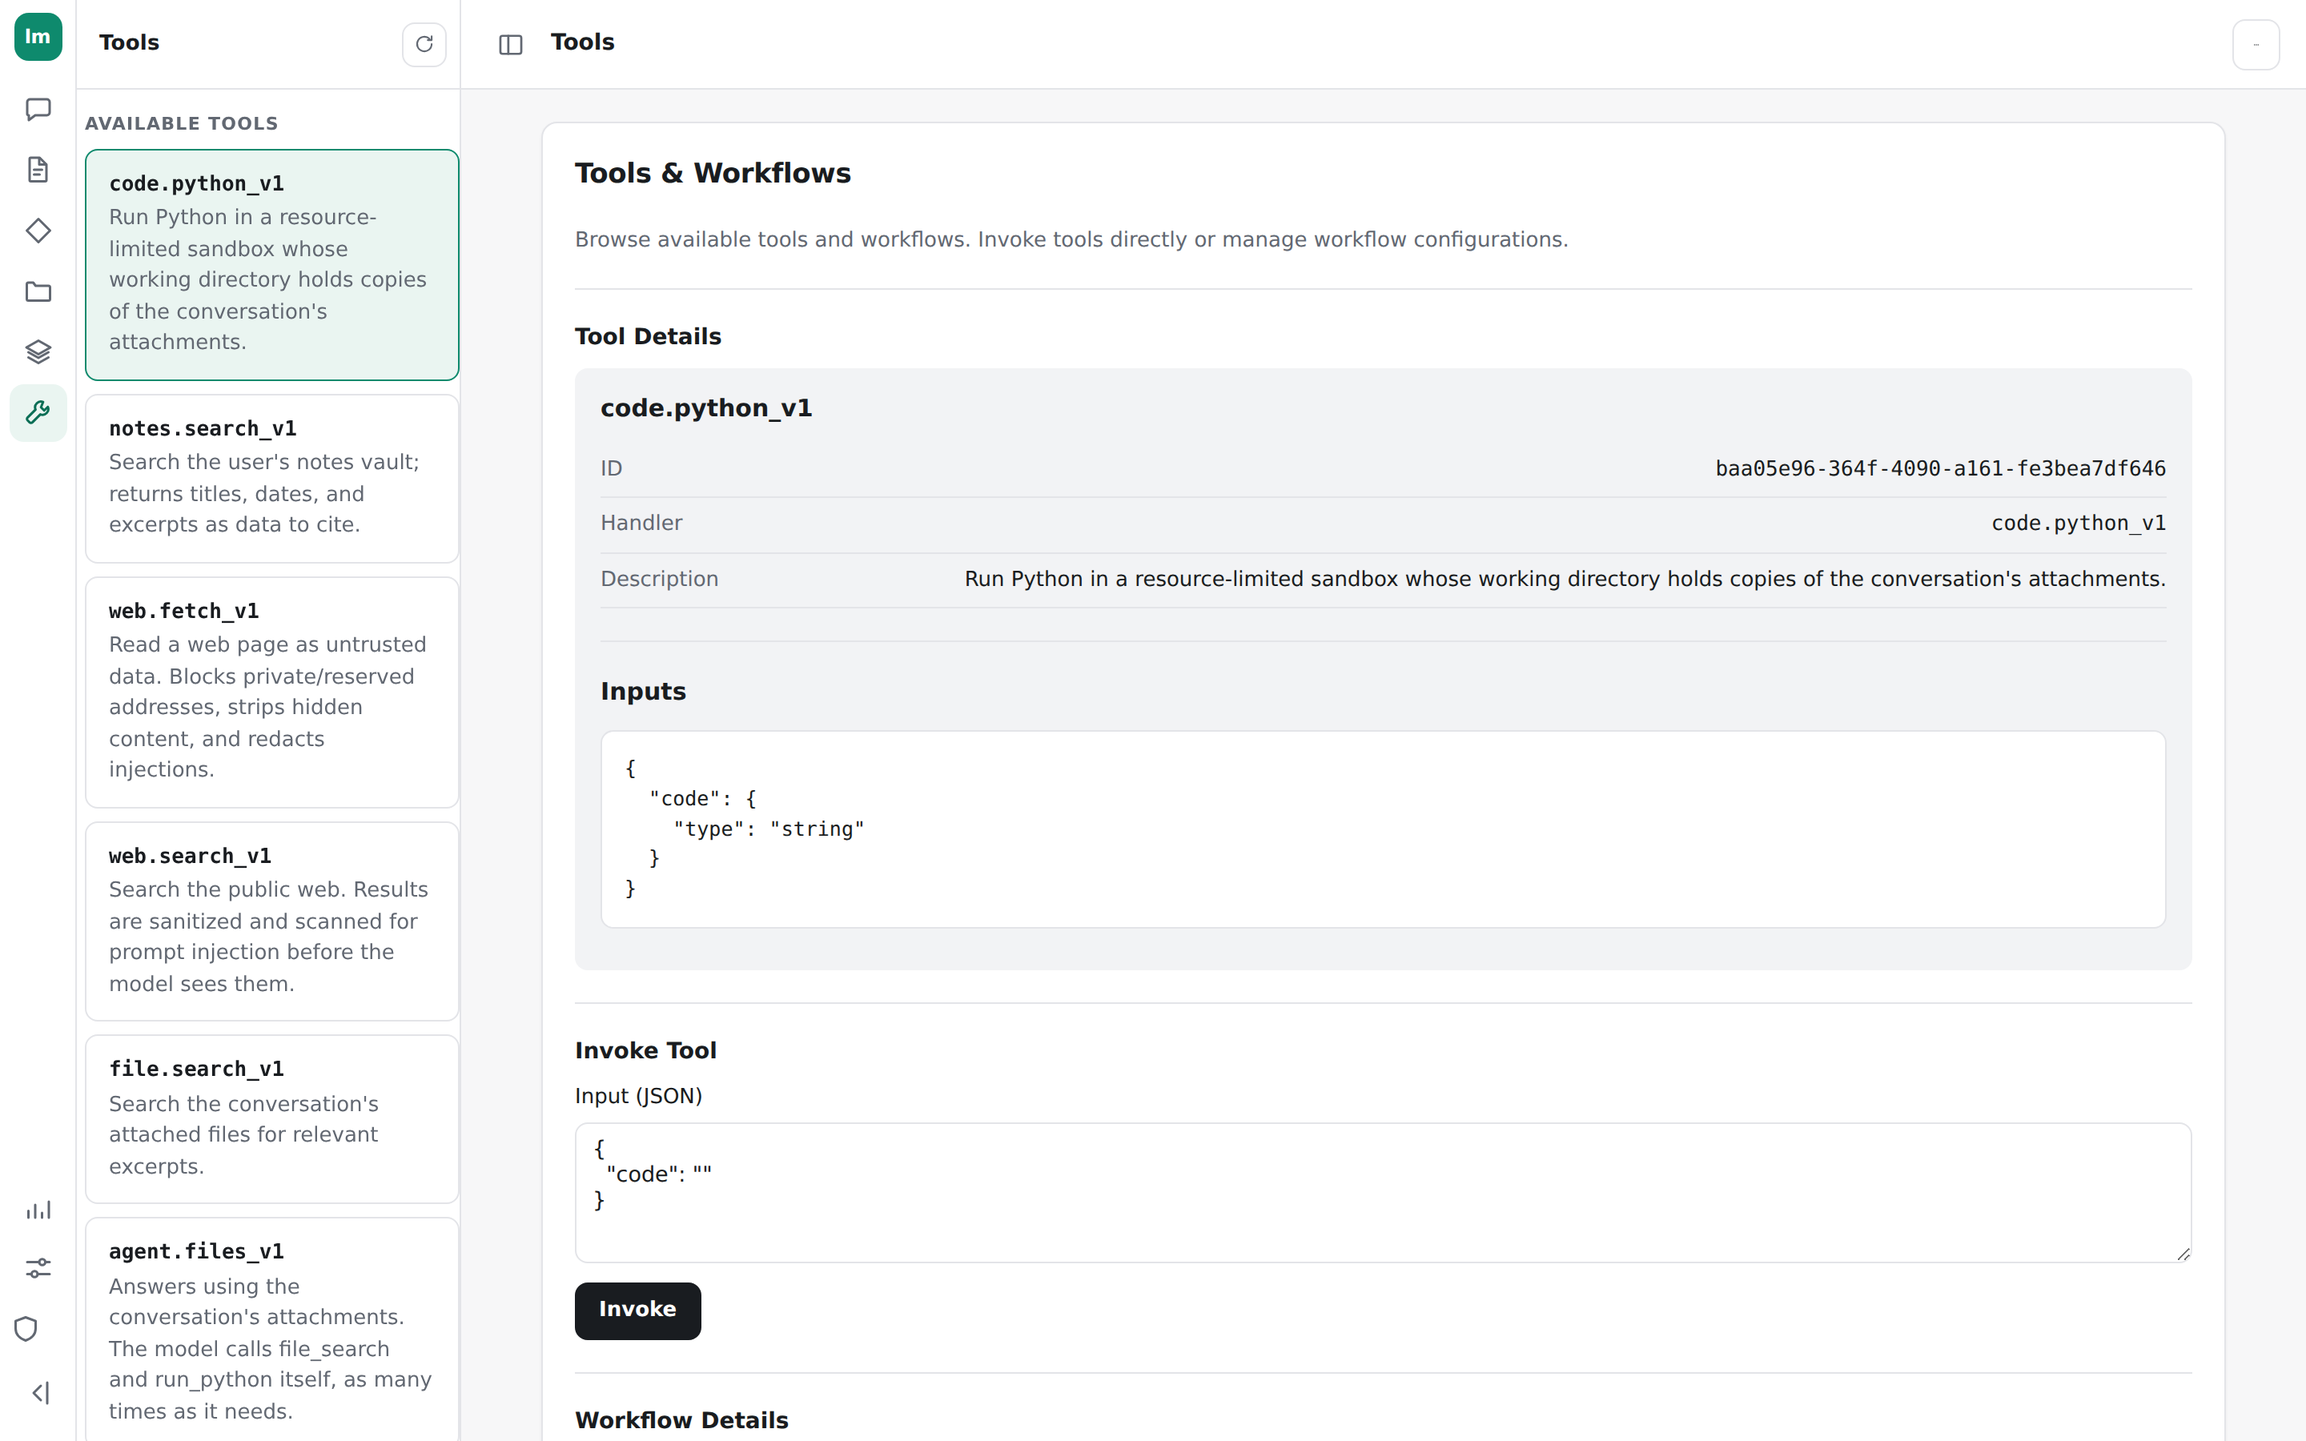
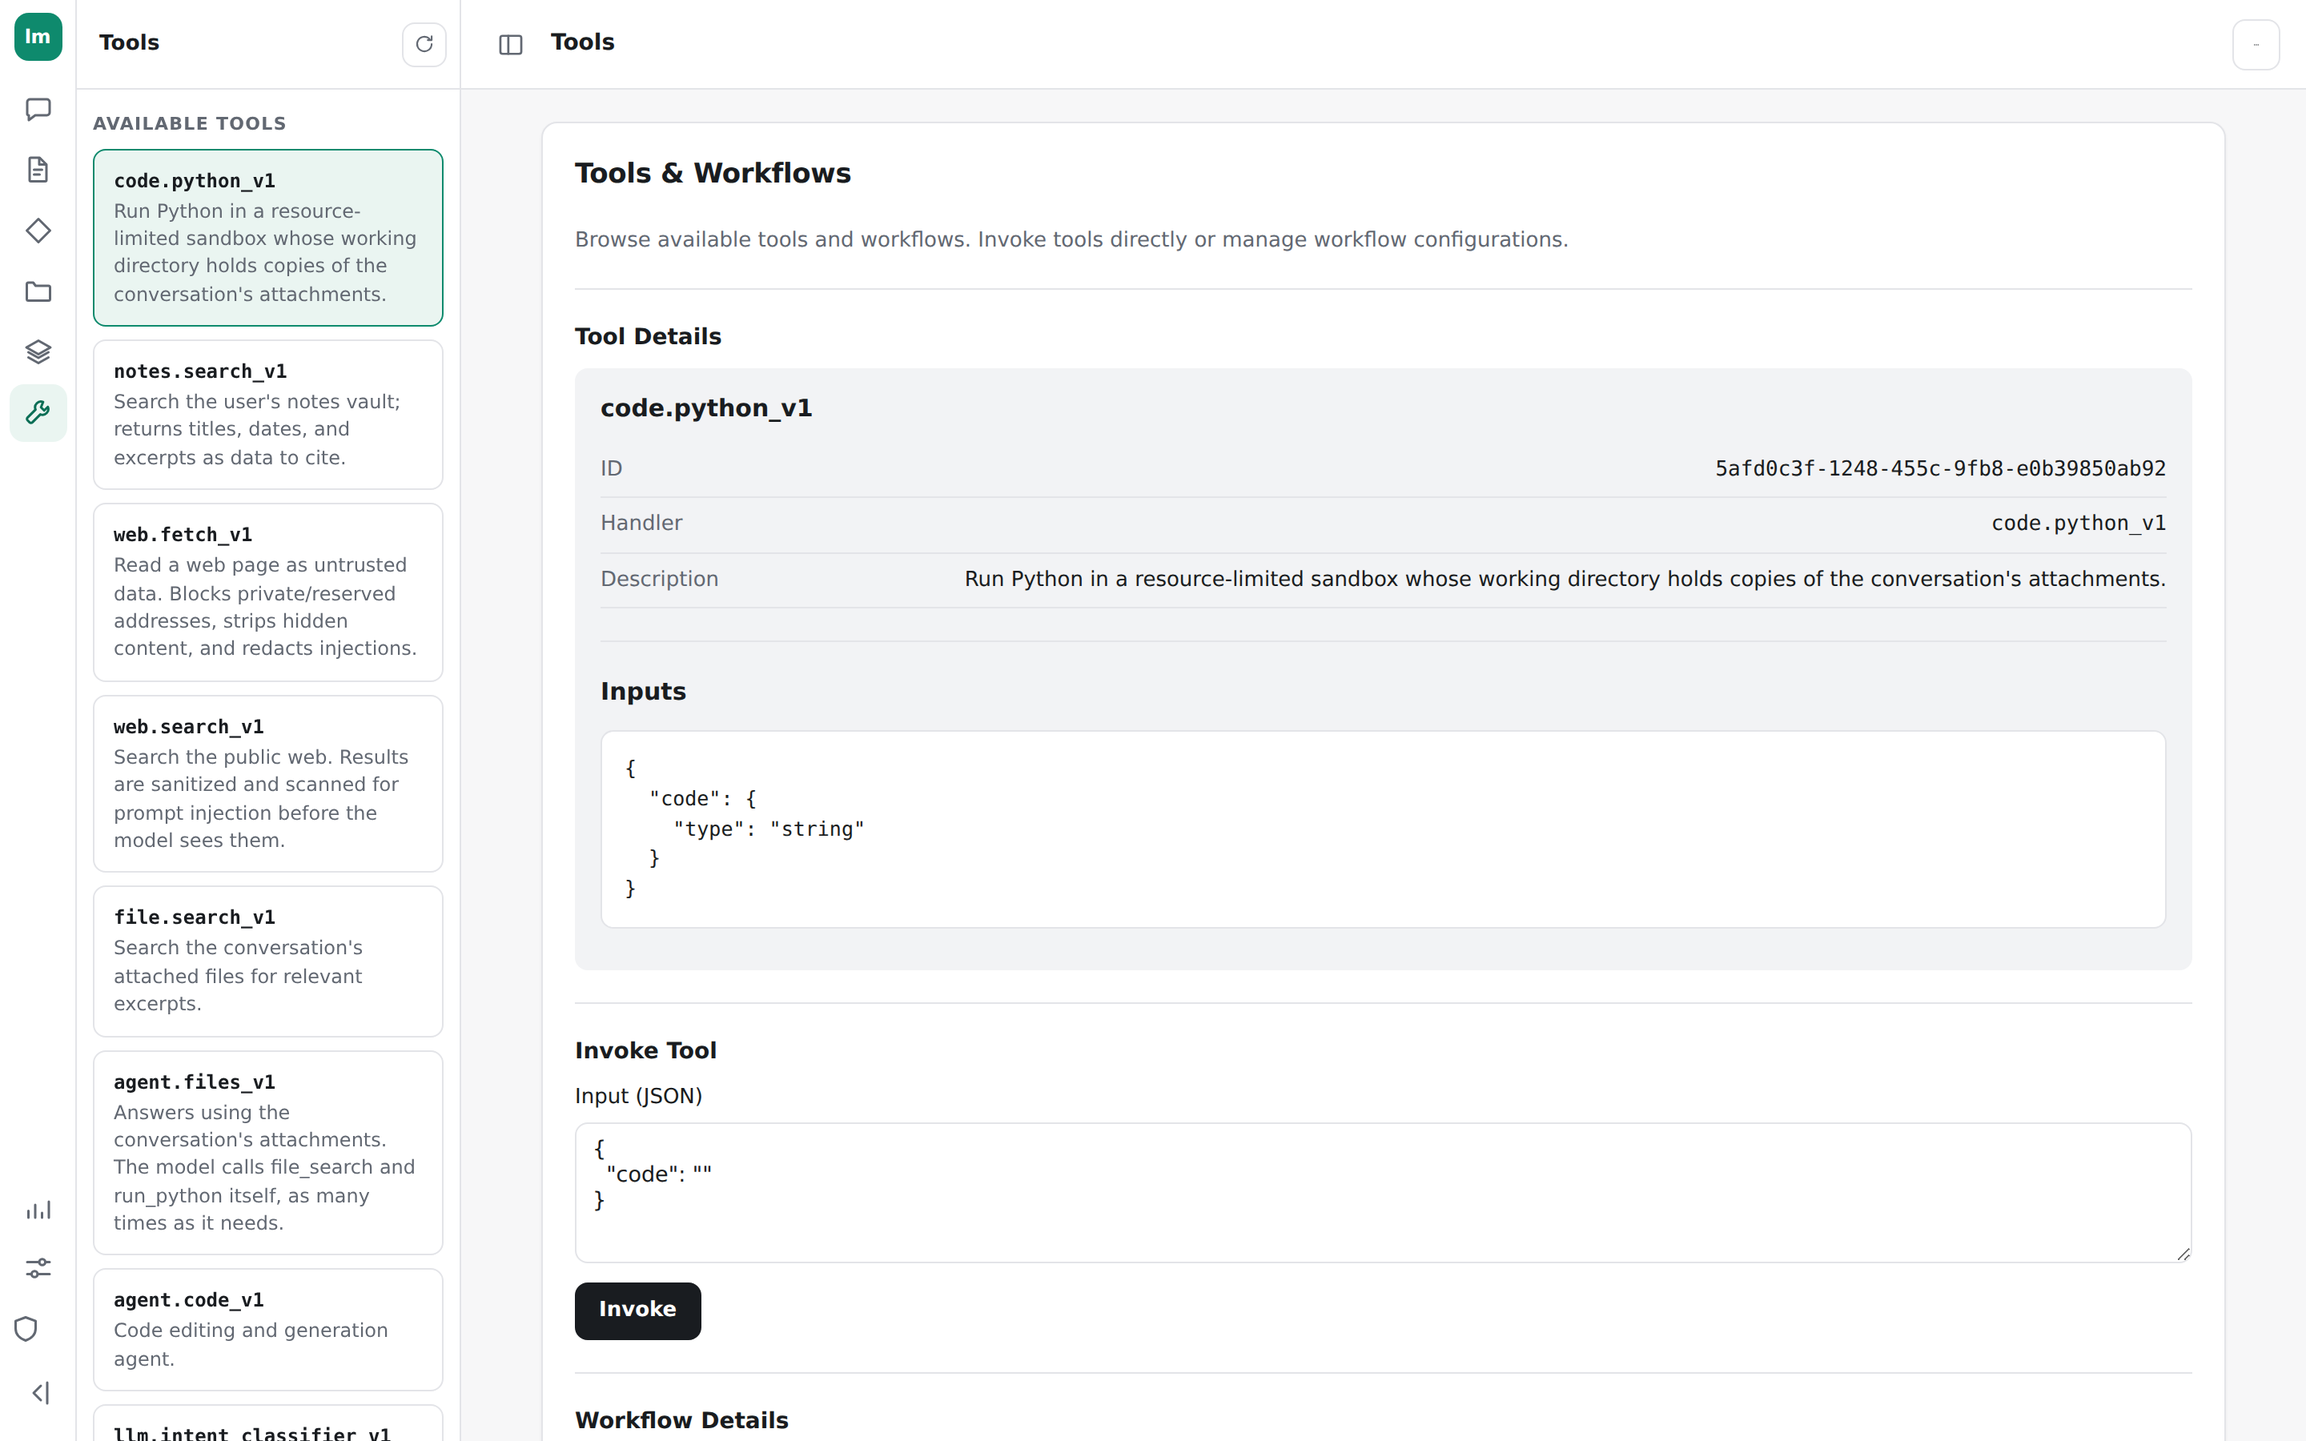
Lay the pane's lists out for the pane
Three lists were written for a full-width panel and moved into a 240px
column without being re-laid out. The overflow was then contained rather
than removed - `overflow-x: auto` on the wrapper - which keeps the column
the right width and lets the content scroll out of sight inside it.

Artifacts was a five-column table 358px wider than the pane holding it. What
scrolled off the left edge was the name; what kept its full slot was the
version and the date. The pane showed VISIBILITY, VERSION and UPDATED, and
the only field a row is picked by was off-screen. It is a card now, the same
shape as contexts and tools: name first, type and visibility under it,
version and date last and quiet.

Notes put the title and the date side by side, so the date held a fixed slot
at every width and the title took what was left. Three notes all dated
8/30/2026 read "Fear and Loathi...", "The reporter is ...", "Gonzo starts
at...": the identifying field truncated to pay for one that never varied.
The row stacks now, which is what the conversation list already did. Its
footer wraps rather than fighting for one line, where "3 notes" had been
breaking in half.

The contexts card's stats row wrapped wherever it ran out of room, so a card
read "ID:" / "0c3beee3..." / "Created:" / "8/30/2026" down four lines with
the labels orphaned from their values. It wraps between stats now, never
inside one.

Writing the witness found a fourth, in the pane I had judged fine from the
[…]

Changed region(s): [[0.0312, 0.1244, 0.1875, 1.0], [0.75, 0.3111, 0.9375, 0.3422], [0.0312, 0.0622, 0.125, 0.0933]]

diff --git a/frontend/styles.css b/frontend/styles.css
@@ -332,10 +332,6 @@ body {
   max-width: 100%;
 }
 
-.pane-body .table-wrapper {
-  overflow-x: auto;
-}
-
 .pane-body .notes-side-head input[type="search"],
 .pane-body .field,
 .pane-body select,
@@ -1997,15 +1993,24 @@ button.minor:hover {
 /* Card lists (contexts, tools, workflows) */
 .contexts-list,
 .tools-list,
-.workflows-list {
+.workflows-list,
+.artifacts-list {
   display: grid;
   gap: 8px;
 }
 
+/* `min-width: 0` because these are grid items, and a grid item defaults to
+   `min-width: auto` - it refuses to shrink below its own min-content width.
+   A monospace name like `code.python_v1` set that floor above the 219px the
+   pane's list track actually has, so every card sat 15px wider than the list
+   holding it and 5px outside the pane. The container was the right width the
+   whole time; the items were not obliged to respect it. */
 .context-card,
 .tool-card,
-.workflow-card {
-  padding: 12px 14px;
+.workflow-card,
+.artifact-card {
+  min-width: 0;
+  padding: 10px 12px;
   border: 1px solid var(--border);
   border-radius: var(--radius-sm);
   cursor: pointer;
@@ -2014,19 +2019,22 @@ button.minor:hover {
 
 .context-card:hover,
 .tool-card:hover,
-.workflow-card:hover {
+.workflow-card:hover,
+.artifact-card:hover {
   border-color: var(--border-strong);
   background: var(--panel-muted);
 }
 
 .context-card.selected,
 .tool-card.selected,
-.workflow-card.selected {
+.workflow-card.selected,
+.artifact-card.selected {
   border-color: var(--accent);
   background: var(--accent-light);
 }
 
-.context-card .name {
+.context-card .name,
+.artifact-card .name {
   font-weight: 600;
   margin-bottom: 2px;
 }
@@ -2037,17 +2045,64 @@ button.minor:hover {
   margin-bottom: 6px;
 }
 
-.context-card .stats {
+/* Wraps between stats, never inside one. In a 240px pane a nowrap row of
+   two label-and-value pairs broke wherever it ran out of room, so a card
+   read "ID:" / "0c3beee3..." / "Created:" / "8/30/2026" down four lines
+   with the labels orphaned from their values. */
+.context-card .stats,
+.artifact-card .stats {
   display: flex;
-  gap: 16px;
+  flex-wrap: wrap;
+  gap: 2px 14px;
   font-size: 12px;
   color: var(--text-muted);
 }
 
-.context-card .stat {
+.context-card .stat,
+.artifact-card .stat {
   display: flex;
   align-items: center;
   gap: 4px;
+  white-space: nowrap;
+}
+
+/* Type and visibility, under the name rather than beside it: at this width
+   a badge next to a name is a badge instead of a name. */
+.artifact-card .badges {
+  display: flex;
+  flex-wrap: wrap;
+  gap: 4px;
+  margin: 4px 0 6px;
+}
+
+/* Names run long - a workflow id, or an artifact falling back to its uuid -
+   and the pane is narrow enough that one long token would push the card
+   wider than its column. */
+.artifact-card .name {
+  overflow-wrap: anywhere;
+}
+
+/* The pane reads a step quieter than the workspace beside it: it is
+   secondary navigation, and it has 219px to say a name in. One step down is
+   a few more characters before the ellipsis on every row, which is the whole
+   point of the column. Meta stays at 11px, matching the conversation list.
+
+   `overflow-wrap` on the names for the same reason as `min-width: 0` above:
+   a dotted tool id or a uuid is one unbreakable word, and an unbreakable
+   word sets a min-content floor no narrow column can meet. */
+.context-pane .tool-name,
+.context-pane .workflow-name,
+.context-pane .context-card .name,
+.context-pane .artifact-card .name {
+  font-size: 12px;
+  overflow-wrap: anywhere;
+}
+
+.context-pane .tool-description,
+.context-pane .workflow-description,
+.context-pane .context-card .description {
+  font-size: 12px;
+  line-height: 1.45;
 }
 
 /* Detail blocks (contexts, tools, workflows, patches) */
@@ -2996,11 +3051,12 @@ button.minor:hover {
   flex: 1;
 }
 
+/* Title on its own line, date under it - the conversation list's shape.
+   Side by side, the date held a full slot at every width while the title
+   took what was left, so in a 240px pane three notes all dated 8/30/2026
+   read "Fear and Loathi...", "The reporter is ...", "Gonzo starts at...":
+   the identifying field truncated to pay for one that never varies. */
 .note-item {
-  display: flex;
-  justify-content: space-between;
-  align-items: baseline;
-  gap: 8px;
   padding: 8px 10px;
   border-radius: var(--radius-sm);
   cursor: pointer;
@@ -3011,25 +3067,37 @@ button.minor:hover {
 .note-item.contradicted .note-item-title { color: var(--danger); }
 
 .note-item-title {
+  display: block;
   font-weight: 500;
+  font-size: 13px;
   overflow: hidden;
   text-overflow: ellipsis;
   white-space: nowrap;
 }
 
 .note-item-date {
+  display: block;
   font-size: 11px;
   color: var(--text-muted);
-  flex-shrink: 0;
 }
 
+/* Wraps rather than fights for one line. The count and the two buttons were
+   a row that could not fit in 240px, so "3 notes" broke across two lines
+   and the buttons stacked beside it with the gap between them. */
 .notes-side-foot {
   display: flex;
+  flex-wrap: wrap;
   justify-content: space-between;
   align-items: center;
+  gap: 6px;
   padding: 8px 12px;
   border-top: 1px solid var(--border);
   font-size: 12px;
+}
+
+/* "3 notes" is two words and one fact; breaking it in half is neither. */
+#note-count {
+  white-space: nowrap;
 }
 
 .notes-main {

diff --git a/frontend/chat.js b/frontend/chat.js
@@ -300,7 +300,7 @@ const PANE_ITEM_SELECTOR = [
   '.note-item',
   '.note-search-hit',
   '.context-card',
-  '.artifacts-list tr.clickable',
+  '.artifact-card',
   '.tool-card',
   '.workflow-card',
 ].join(', ');
@@ -2035,30 +2035,33 @@ const renderArtifactsList = () => {
     return;
   }
 
-  const rows = state.artifacts
+  // A card, not a table row. Five columns need more than the 240px pane has,
+  // so the table scrolled sideways and the name - the only thing you pick a
+  // row by - was the part that went off the edge, while the version and the
+  // date kept their full slots. Same shape as the contexts and tools lists.
+  list.innerHTML = state.artifacts
     .map((a) => {
       const isSelected = a.id === state.selectedArtifact?.id;
+      const type = a.type || 'unknown';
+      const visibility = a.visibility || 'private';
       return `
-        <tr class="clickable ${isSelected ? 'selected' : ''}" data-id="${escapeHtml(a.id)}">
-          <td><span class="type-badge ${a.type || 'unknown'}">${escapeHtml(a.type || 'unknown')}</span></td>
-          <td>${escapeHtml(a.name || a.id)}</td>
-          <td><span class="visibility-badge ${a.visibility || 'private'}">${escapeHtml(a.visibility || 'private')}</span></td>
-          <td>v${a.version || 1}</td>
-          <td>${new Date(a.updated_at).toLocaleDateString()}</td>
-        </tr>
+        <div class="artifact-card ${isSelected ? 'selected' : ''}" data-id="${escapeAttr(a.id)}">
+          <div class="name">${escapeHtml(a.name || a.id)}</div>
+          <div class="badges">
+            <span class="type-badge ${escapeAttr(type)}">${escapeHtml(type)}</span>
+            <span class="visibility-badge ${escapeAttr(visibility)}">${escapeHtml(visibility)}</span>
+          </div>
+          <div class="stats">
+            <span class="stat">v${escapeHtml(String(a.version || 1))}</span>
+            <span class="stat">${escapeHtml(new Date(a.updated_at).toLocaleDateString())}</span>
+          </div>
+        </div>
       `;
     })
     .join('');
 
-  list.innerHTML = `
-    <table class="table">
-      <thead><tr><th>Type</th><th>Name</th><th>Visibility</th><th>Version</th><th>Updated</th></tr></thead>
-      <tbody>${rows}</tbody>
-    </table>
-  `;
-
-  list.querySelectorAll('tr.clickable').forEach((row) => {
-    row.addEventListener('click', () => selectArtifact(row.dataset.id));
+  list.querySelectorAll('.artifact-card').forEach((card) => {
+    card.addEventListener('click', () => selectArtifact(card.dataset.id));
   });
 };
 

diff --git a/frontend/index.html b/frontend/index.html
@@ -130,7 +130,7 @@
               </div>
             </div>
 
-            <div id="artifacts-list" class="artifacts-list table-wrapper">
+            <div id="artifacts-list" class="artifacts-list">
               <div class="empty">No artifacts found</div>
             </div>
           </div>

diff --git a/tests/test_browser_layout.py b/tests/test_browser_layout.py
@@ -1185,3 +1185,92 @@ class TestTheDefaultFollowsTheWidthWhileItIsStillTheDefault:
             assert self._stored(page) == "1"
         finally:
             context.close()
+
+
+class TestAPaneListFitsItsPane:
+    """Nothing in a 240px column may be wider than 240px.
+
+    The lists were written for a full-width panel and moved into the pane
+    without being re-laid out. The overflow was then contained rather than
+    removed - `overflow-x: auto` on the wrapper - which keeps the column the
+    right width and lets the content scroll out of sight inside it. The
+    artifacts list was a five-column table, so what scrolled away was the
+    name: the pane showed VERSION and UPDATED, and the field you pick a row
+    by was off the left edge.
+
+    Measuring the pane proves nothing, because the pane was always 240px.
+    These measure the content against it.
+    """
+
+    #: Panes whose list is populated by the fixtures a fresh account has.
+    #: Chat and Notes start empty for a new signup, so their emptiness is not
+    #: evidence either way; Tools ships a built-in catalogue.
+    POPULATED = ["tools-tab"]
+
+    def _overflow(self, page):
+        """How far the widest thing in the pane sticks out past it."""
+        return page.evaluate(
+            """() => {
+              const pane = document.querySelector('.context-pane');
+              if (!pane) return null;
+              const limit = pane.getBoundingClientRect().width;
+              let worst = 0, culprit = '';
+              for (const el of pane.querySelectorAll('*')) {
+                if (!el.getClientRects().length) continue;
+                const over = el.scrollWidth - limit;
+                if (over > worst) {
+                  worst = over;
+                  culprit = el.className || el.tagName;
+                }
+              }
+              return {over: Math.round(worst), culprit, limit: Math.round(limit)};
+            }"""
+        )
+
+    @pytest.mark.parametrize("tab", WITH_PANE)
+    def test_nothing_in_the_pane_is_wider_than_the_pane(
+        self, browser, server, tab
+    ):
+        context, page = _signed_in_page(browser, server, DESKTOP)
+        try:
+            page.click(f'.rail-btn[data-tab="{tab}"]')
+            page.wait_for_timeout(600)
+            result = self._overflow(page)
+            assert result is not None, "the pane is missing"
+            assert result["over"] <= 1, (
+                f"{tab}: `{result['culprit']}` is {result['over']}px wider "
+                f"than the {result['limit']}px pane, so part of it can only "
+                f"be reached by scrolling sideways"
+            )
+        finally:
+            context.close()
+
+    @pytest.mark.parametrize("tab", POPULATED)
+    def test_a_row_leads_with_its_name(self, browser, server, tab):
+        """The other half. A list that fits but shows the wrong field first
+        would pass the test above and still be useless.
+        """
+        context, page = _signed_in_page(browser, server, DESKTOP)
+        try:
+            page.click(f'.rail-btn[data-tab="{tab}"]')
+            page.wait_for_selector(".tool-card", timeout=15000)
+            leads = page.evaluate(
+                """() => {
+                  const card = document.querySelector('.tool-card');
+                  const pane = document.querySelector('.context-pane');
+                  const name = card.querySelector('.tool-name');
+                  const p = pane.getBoundingClientRect();
+                  const n = name.getBoundingClientRect();
+                  return {
+                    visible: n.left >= p.left - 1 && n.right <= p.right + 1,
+                    text: name.textContent.trim(),
+                  };
+                }"""
+            )
+            assert leads["visible"], (
+                f"{tab}: the name is outside the pane's own box, so the row "
+                f"cannot be identified without scrolling"
+            )
+            assert leads["text"], "the row has no name to lead with"
+        finally:
+            context.close()

diff --git a/scripts/capture_screenshots.py b/scripts/capture_screenshots.py
@@ -57,7 +57,7 @@ TABS = [
     ("notes-tab", "03-notes", ".note-item"),
     ("contexts-tab", "04-contexts", ".context-card"),
     ("files-tab", "05-files", None),
-    ("artifacts-tab", "06-artifacts", "tr.clickable"),
+    ("artifacts-tab", "06-artifacts", ".artifact-card"),
     ("tools-tab", "07-tools", ".tool-card"),
     ("insights-tab", "08-insights", None),
     ("settings-tab", "09-settings", None),
